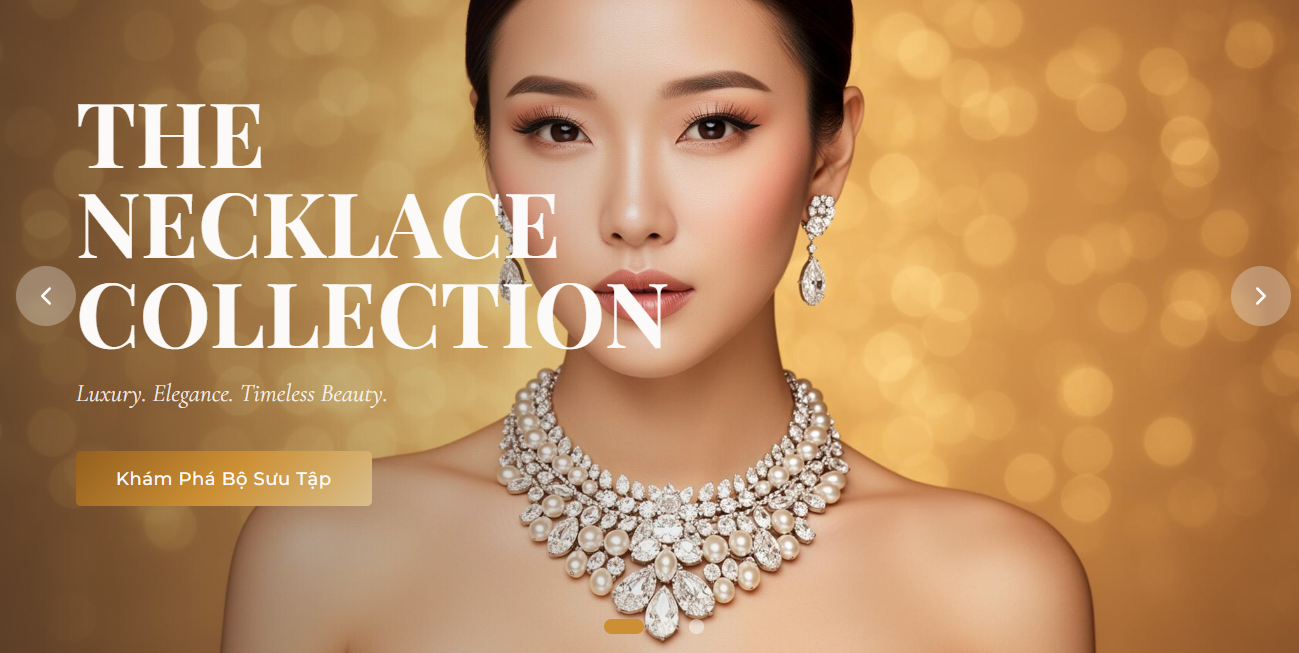
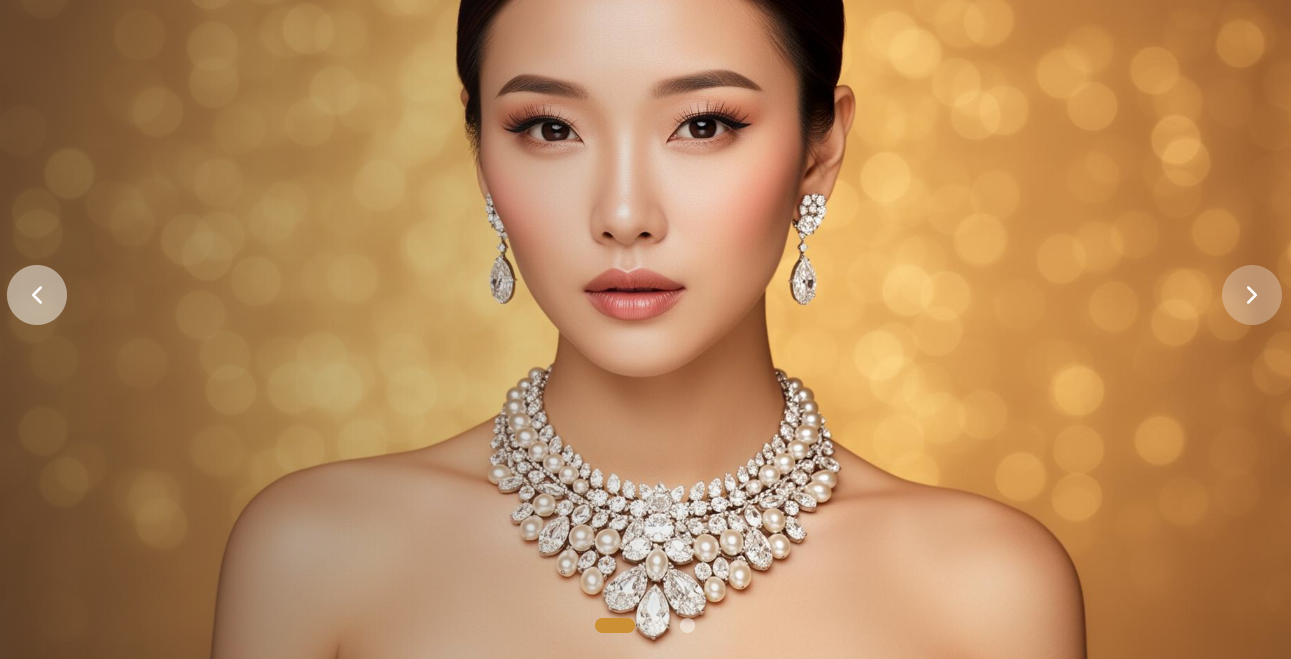
Changes

diff --git a/src/components/HeroCarousel.tsx b/src/components/HeroCarousel.tsx
@@ -1,5 +1,5 @@
 import { useState, useEffect, useCallback } from "react";
-import { ArrowRight } from "lucide-react";
+import { ChevronLeft, ChevronRight, ArrowRight } from "lucide-react";
 import { useNavigate } from "react-router-dom";
 import hero1 from "@/assets/hero-1.jpg";
 import hero2 from "@/assets/hero-2.jpg";
@@ -43,6 +43,7 @@ const HeroCarousel = () => {
   }, []);
 
   const next = useCallback(() => goTo((current + 1) % slides.length), [current, goTo]);
+  const prev = useCallback(() => goTo((current - 1 + slides.length) % slides.length), [current, goTo]);
 
   useEffect(() => {
     const timer = setInterval(next, 5000);
@@ -66,7 +67,7 @@ const HeroCarousel = () => {
         </div>
       ))}
 
-      {/* Text overlay on image */}
+      {/* Text overlay */}
       <div className="absolute inset-0 flex items-center">
         <div className="container mx-auto px-4 md:px-16">
           <div
@@ -92,6 +93,20 @@ const HeroCarousel = () => {
           </div>
         </div>
       </div>
+
+      {/* Arrow navigation */}
+      <button
+        onClick={prev}
+        className="absolute left-4 top-1/2 -translate-y-1/2 w-12 h-12 rounded-full bg-background/30 backdrop-blur-sm flex items-center justify-center hover:bg-background/50 transition-colors z-10"
+      >
+        <ChevronLeft className="w-6 h-6 text-primary-foreground" />
+      </button>
+      <button
+        onClick={next}
+        className="absolute right-4 top-1/2 -translate-y-1/2 w-12 h-12 rounded-full bg-background/30 backdrop-blur-sm flex items-center justify-center hover:bg-background/50 transition-colors z-10"
+      >
+        <ChevronRight className="w-6 h-6 text-primary-foreground" />
+      </button>
 
       {/* Dots */}
       <div className="absolute bottom-8 left-1/2 -translate-x-1/2 flex gap-3">
